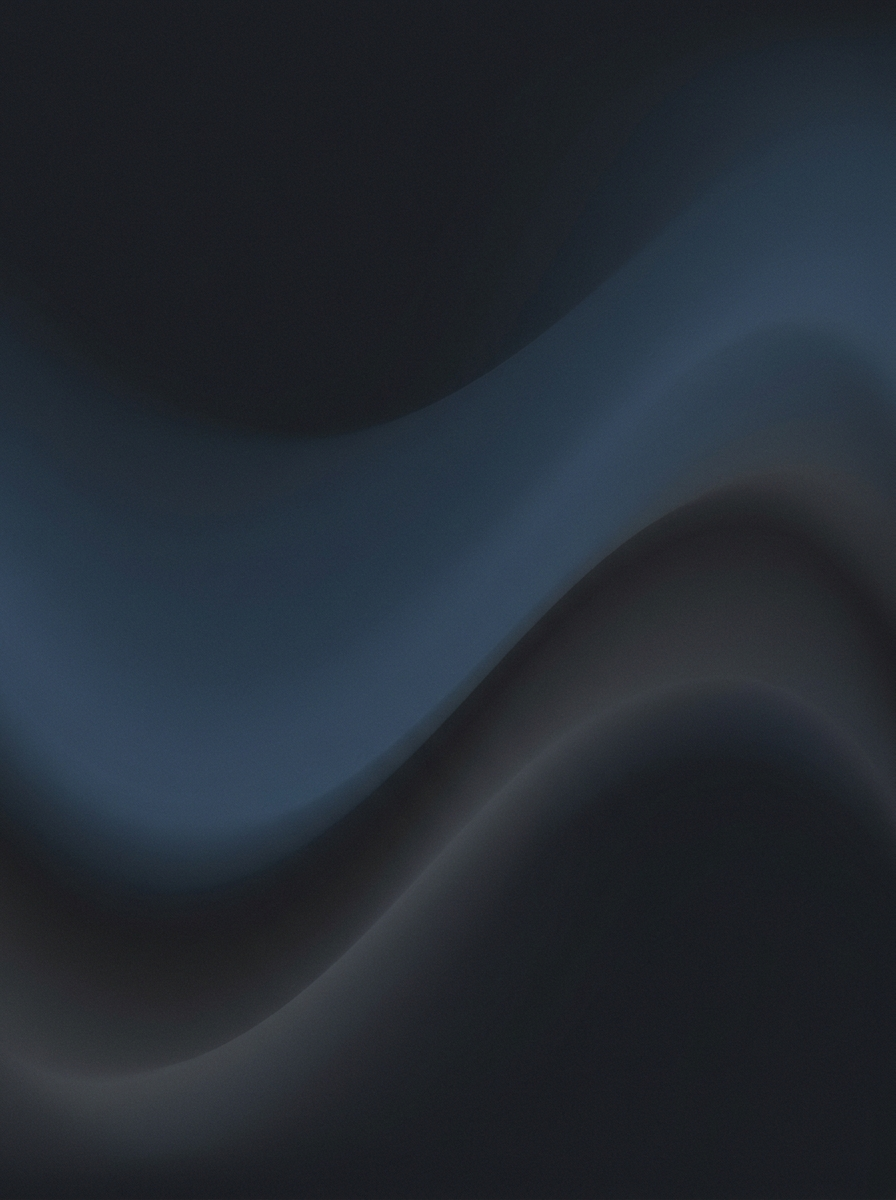
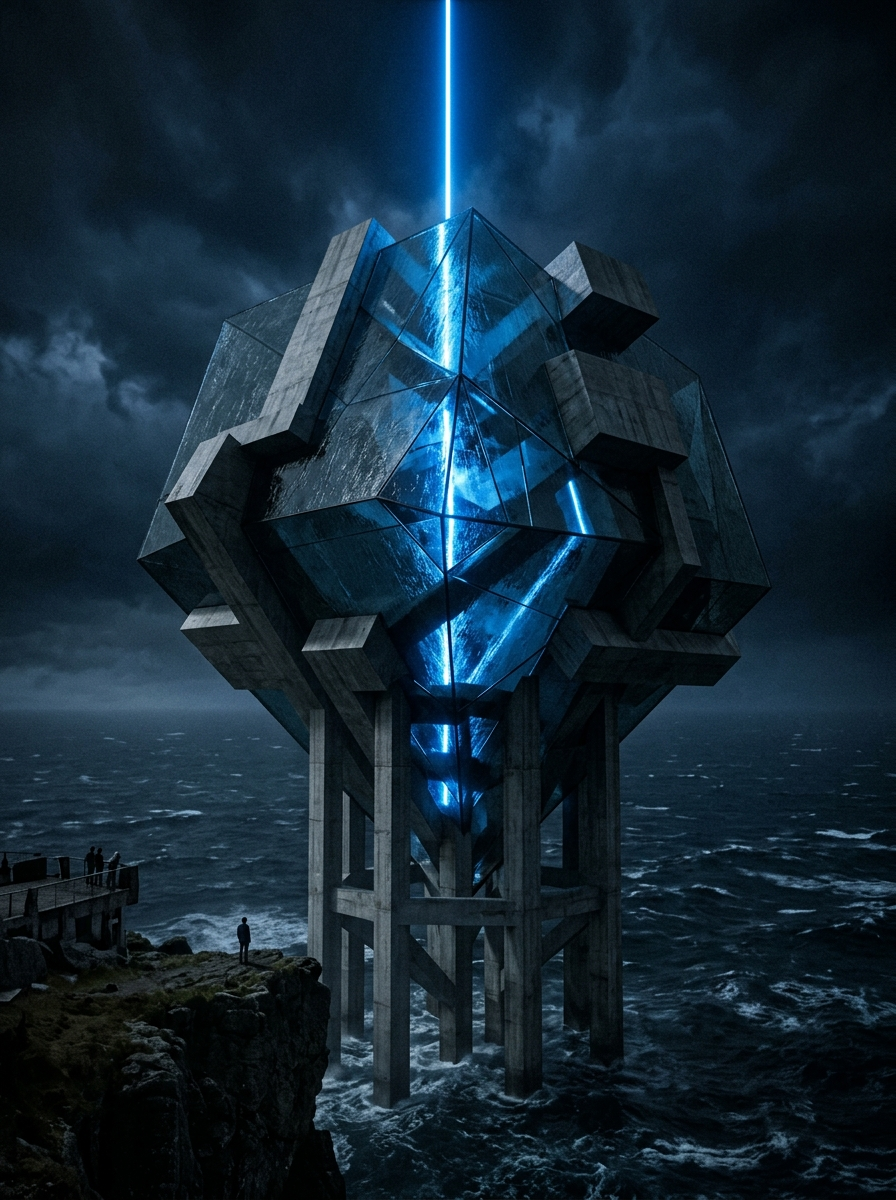
Replace SVG hero with innovative Glass Monolith image

diff --git a/frontend/src/components/Hero.tsx b/frontend/src/components/Hero.tsx
@@ -44,66 +44,15 @@ export const Hero: React.FC<HeroProps> = () => {
         </div>
       </div>
       <div className="hidden lg:block lg:col-span-4 relative">
-        <div className="aspect-[4/5] rounded-[2rem] overflow-hidden shadow-2xl border border-stone-200/50 relative bg-surface-container-lowest flex items-center justify-center">
-          {/* Abstract background */}
-          <div className="absolute inset-0 opacity-50">
-            <svg className="w-full h-full text-zinc-300" xmlns="http://www.w3.org/2000/svg">
-              <defs>
-                <pattern id="heroDotGrid" x="0" y="0" width="32" height="32" patternUnits="userSpaceOnUse">
-                  <circle cx="2" cy="2" r="1.5" fill="currentColor" />
-                </pattern>
-              </defs>
-              <rect x="0" y="0" width="100%" height="100%" fill="url(#heroDotGrid)" />
-              {/* Abstract network paths */}
-              <path d="M -50 150 C 100 150 200 -50 400 100 M 0 300 C 150 400 250 200 500 350 M -100 500 C 100 450 300 600 500 450" fill="none" stroke="currentColor" strokeWidth="1.5" strokeDasharray="4 4" />
-              <path d="M 50 100 L 150 300 L 350 250 L 450 400" fill="none" stroke="currentColor" strokeWidth="1.5" opacity="0.6"/>
-              {/* Network nodes */}
-              <circle cx="50" cy="100" r="3.5" fill="currentColor" />
-              <circle cx="150" cy="300" r="3.5" fill="currentColor" />
-              <circle cx="350" cy="250" r="3.5" fill="currentColor" />
-              <circle cx="450" cy="400" r="3.5" fill="currentColor" />
-            </svg>
-          </div>
-
-          {/* Central Gauge */}
-          <div className="relative w-64 h-64 z-10 bg-white rounded-full p-6 shadow-2xl border border-stone-100 flex flex-col items-center justify-center transform -translate-y-8">
-            <svg className="absolute inset-0 w-full h-full -rotate-90 p-4" viewBox="0 0 100 100">
-              <circle className="text-surface-container-high" cx="50" cy="50" fill="transparent" r="44" stroke="currentColor" strokeWidth="6"></circle>
-              <circle 
-                className="text-primary transition-all duration-1000 ease-out" 
-                cx="50" cy="50" fill="transparent" r="44" 
-                stroke="currentColor" 
-                strokeDasharray="276.46" 
-                strokeDashoffset="63" 
-                strokeWidth="6" 
-                strokeLinecap="round"
-              ></circle>
-            </svg>
-            <span className="text-7xl font-headline font-bold text-on-surface">77</span>
-            <span className="text-[10px] uppercase tracking-[0.2em] text-on-surface-variant font-label mt-1 font-bold">Trust Score</span>
-          </div>
-
-          {/* Floating UI Elements */}
-          <div className="absolute top-16 right-8 z-10 flex items-center gap-2 bg-emerald-50 border border-emerald-200/60 px-4 py-2 rounded-lg shadow-sm transform rotate-2">
-            <span className="w-1.5 h-1.5 rounded-full bg-emerald-600"></span>
-            <span className="text-[10px] uppercase font-bold tracking-widest text-emerald-800">Grade B</span>
-          </div>
-
-          <div className="absolute top-56 left-6 z-10 flex flex-col gap-2 bg-white border border-stone-100 p-4 rounded-xl shadow-md transform -rotate-3">
-            <div className="text-[9px] uppercase tracking-widest font-bold text-on-surface-variant">Trackers Detected</div>
-            <div className="flex gap-1.5">
-              <div className="w-10 h-1.5 bg-amber-500 rounded-full"></div>
-              <div className="w-6 h-1.5 bg-surface-container-high rounded-full"></div>
+        <div className="aspect-[4/5] rounded-[2rem] overflow-hidden shadow-2xl transition-transform duration-700 relative">
+          <img className="w-full h-full object-cover" alt="Glass Monolith Data Vault" src="/hero_image.jpg" />
+          <div className="absolute inset-0 bg-gradient-to-t from-zinc-950/80 via-zinc-900/20 to-transparent"></div>
+          <div className="absolute bottom-10 left-8 right-8 text-white">
+            <div className="flex items-center gap-2 mb-3">
+              <span className="w-2 h-2 rounded-full bg-blue-400 animate-pulse"></span>
+              <span className="text-xs uppercase tracking-widest opacity-90 font-medium font-label">Live Analysis Engine</span>
             </div>
-          </div>
-
-          {/* Bottom text overlay */}
-          <div className="absolute bottom-0 left-0 right-0 bg-gradient-to-t from-surface via-surface/95 to-transparent pt-32 pb-10 px-10 z-20">
-            <div className="flex items-center gap-3 mb-4">
-              <span className="w-2.5 h-2.5 rounded-full bg-primary animate-pulse"></span>
-              <span className="text-xs uppercase tracking-widest text-on-surface-variant font-bold">Live Analysis Engine</span>
-            </div>
-            <p className="text-2xl font-body leading-snug text-on-surface">"Protecting user data through radical transparency."</p>
+            <p className="text-xl font-body leading-snug">"Protecting user data through radical transparency."</p>
           </div>
         </div>
       </div>
